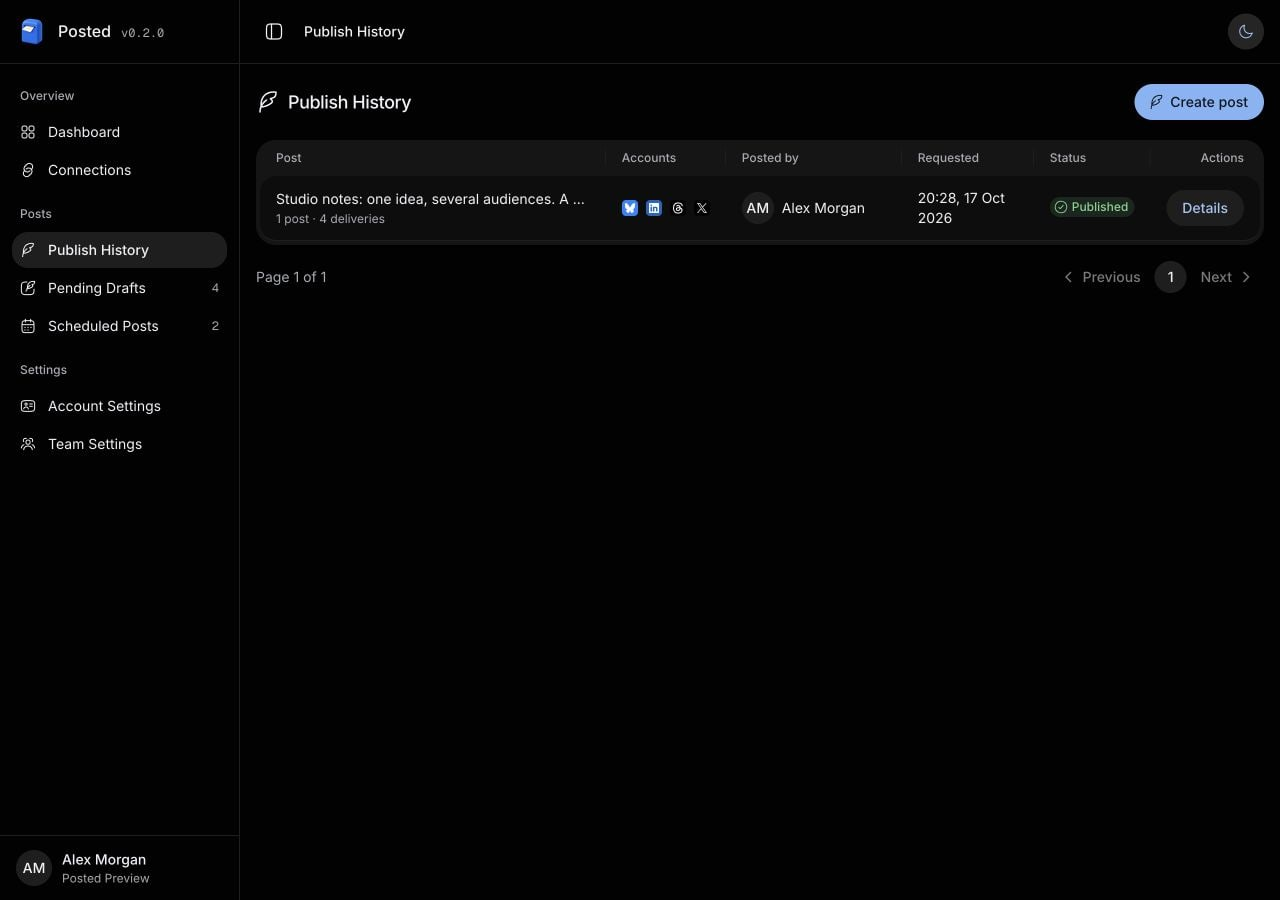
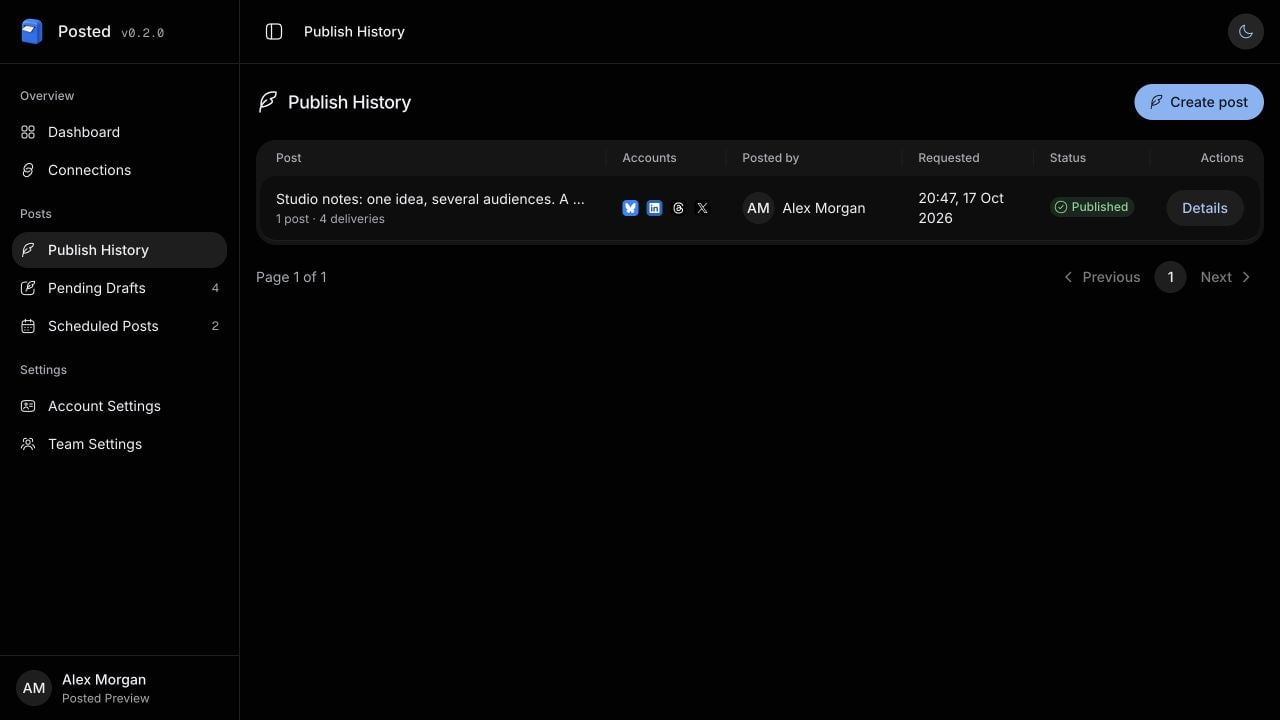
Pin published v0.2.0 images for Towbar deployment

diff --git a/tools/docs-preview.ts b/tools/docs-preview.ts
@@ -25,8 +25,8 @@ const environment = {
   NODE_ENV: "development",
   POSTED_DB_SCHEMA: schema,
   PORT: "4391",
-  POSTED_WEB_URL: "http://localhost:4392",
-  POSTED_API_URL: "http://localhost:4391",
+  POSTED_WEB_URL: "http://127.0.0.1:4392",
+  POSTED_API_URL: "http://127.0.0.1:4391",
   POSTED_SECRET: randomBytes(48).toString("hex"),
   POSTED_S3_ENDPOINT: "http://127.0.0.1:55491",
   POSTED_S3_REGION: "us-east-1",
@@ -157,6 +157,7 @@ const history = await calls("/posts", {
   scheduledAt: new Date(Date.now() + 86400000).toISOString(),
   idempotencyKey: randomUUID(),
 });
+await sql`UPDATE post_groups SET scheduled_at=now() WHERE id=${history.post.id}`;
 await sql`UPDATE post_deliveries SET state='published',provider_post_id='documentation-fixture',published_url='https://example.test/sample-post',published_at=now(),updated_at=now() WHERE group_id=${history.post.id}`;
 await writeFile(
   "tmp/docs-preview.json",
@@ -223,4 +224,6 @@ async function close() {
 }
 process.once("SIGTERM", () => void close());
 process.once("SIGINT", () => void close());
-console.log("Posted isolated documentation preview: http://localhost:4392");
+console.log(
+  `Posted isolated documentation preview: ${environment.POSTED_WEB_URL}`,
+);

diff --git a/docs/v1-requirements.md b/docs/v1-requirements.md
@@ -145,7 +145,7 @@ Expanded master and account media thumbnails open a shared dismissible dialog wi
 
 Focused browser review verified opening images from both editors, keyboard activation, portrait containment, Escape and backdrop dismissal, mobile video playback and closing the player. Metadata review verified image dimensions/file size, video dimensions/file size/0:04 duration, no horizontal overflow at 390 px and no media-card or handle focus ring. The mobile dialog measured 374 px inside a 390 px viewport; the larger video played while the thumbnail remained paused after dismissal. Handle reordering remained functional, and temporary changes were restored without saving. Captures: `artifacts/media-preview-image-dialog.jpg` and `artifacts/media-preview-video-mobile.jpg`.
 
-Focused verification passed 29 PostgreSQL/storage/MCP/draft tests, including per-account media order, explicit empty overrides, version/idempotency conflicts, reset, ownership/readiness/limit/permission validation and delivery with isolated provider mocks. Strict types, targeted lint, formatting, generated docs and the production web build passed. Browser review verified upload, removal, keyboard reordering, save/reopen, account isolation, reset Cancel/confirm, media-only account-removal confirmation and mobile account controls. A temporary 40-post video draft had 80 video elements but loaded only 2–3 nearby sources; typing and scrolling remained responsive and off-screen sources unloaded. Temporary drafts and their account-only test upload were removed, preserving the four reusable fixtures. Captures: `artifacts/account-media-edit-desktop.jpg`, `artifacts/account-media-customization.jpg` and `artifacts/account-media-mobile.jpg`. Broader release/container verification remains deferred.
+Focused verification passed 29 PostgreSQL/storage/MCP/draft tests, including per-account media order, explicit empty overrides, version/idempotency conflicts, reset, ownership/readiness/limit/permission validation and delivery with isolated provider mocks. Strict types, targeted lint, formatting, generated docs and the production web build passed. Browser review verified upload, removal, keyboard reordering, save/reopen, account isolation, reset Cancel/confirm, media-only account-removal confirmation and mobile account controls. A temporary 40-post video draft had 80 video elements but loaded only 2–3 nearby sources; typing and scrolling remained responsive and off-screen sources unloaded. Temporary drafts and their account-only test upload were removed, preserving the four reusable fixtures. Captures: `artifacts/account-media-edit-desktop.jpg`, `artifacts/account-media-customization.jpg` and `artifacts/account-media-mobile.jpg`. Broader release/container verification was deferred at this stage; the final release evidence is recorded below.
 
 ## Local draft fixtures
 
@@ -153,7 +153,7 @@ Draft titles in Pending Drafts link directly to the draft editor, with their exi
 
 The guarded `tools/local-preview-drafts.ts` helper adds four editable samples to the disposable `Posted Preview` installation through authenticated media-upload and draft APIs: a single post for four accounts with three images; a single video post for three accounts; a three-post thread for Bluesky, Threads and X; and a four-post sequence for Bluesky, LinkedIn and Threads with image, video and text-only posts. Samples contain account overrides and image alt text. Media is generated locally and stored privately in the loopback `posted-preview` bucket. Stable draft IDs preserve existing records and user edits on rerun. No posts are queued or published.
 
-Fixture readback confirmed post counts of 1/1/3/4, account counts of 4/3/3/3 and attachment counts of 3/1/3/4, with every attached media record ready. The real four-post editor opened in Preview; all three preview images loaded and the normalized four-second video reached readyState 4 without a media error. A second seed run created no duplicates. Strict TypeScript, targeted lint, formatting and diff checks passed. Captures: `artifacts/preview-drafts-seeded.jpg` and `artifacts/preview-thread-with-media.jpg`. These checks cover the added local fixture data; broader application testing remains deferred.
+Fixture readback confirmed post counts of 1/1/3/4, account counts of 4/3/3/3 and attachment counts of 3/1/3/4, with every attached media record ready. The real four-post editor opened in Preview; all three preview images loaded and the normalized four-second video reached readyState 4 without a media error. A second seed run created no duplicates. Strict TypeScript, targeted lint, formatting and diff checks passed. Captures: `artifacts/preview-drafts-seeded.jpg` and `artifacts/preview-thread-with-media.jpg`. These checks cover the added local fixture data; broader application testing was deferred until the release checks recorded below.
 
 ## Release preparation, 14 October 2026
 
@@ -161,8 +161,8 @@ The final source gate passed formatting, lint, strict types, 67 application test
 
 A fresh ARM64 installation passed setup-secret enforcement, verified first admin, separate-origin routing, non-root/read-only images, private video preparation, durable drafts/future schedules, retry replay, branded Mailpit email and database/private-media restoration. Final source and all three image scans have zero HIGH/CRITICAL findings. The documentation contains 24 navigation routes, generated schemas for 19 REST/MCP operations and 12 desktop/mobile theme captures; native Mintlify build and broken-link checks passed.
 
-Local AMD64 emulation failed twice with a Node/libuv assertion during dependency installation. Native AMD64/ARM64 CI remains a required publication gate. The hosted documentation domain still serves the Mintlify starter kit, and no public Posted repository, packages or release was published. See [release sign-off](release-signoff.md) for the completed checks, evidence and pending external gates.
+At this checkpoint, local AMD64 emulation failed twice with a Node/libuv assertion during dependency installation. Native CI and public publication were still pending. The 0.2.0 evidence below and [release sign-off](release-signoff.md) supersede this historical checkpoint.
 
-## 0.2.0 release preparation
+## 0.2.0 release, 18 October 2026
 
-The release candidate passes `pnpm verify`: strict types, lint, formatting, documentation/schema consistency, release contracts, two operational tests, all 79 PostgreSQL/private-storage integration tests, dependency audit and the production build. Mintlify build validation and broken-link checks pass. Documentation now includes 24 fresh light/dark screenshots from an isolated installation, covering pending drafts, ordered sequences, account text/media customization, media metadata, mobile navigation, scheduling and publication review. Sample completed history is fixture data; no real social post was sent. Exact-commit CI and published image verification remain separate release gates recorded in `docs/release-signoff.md`.
+The released source passed `pnpm verify`: strict types, lint, formatting, documentation/schema consistency, release contracts, two operational tests, all 79 PostgreSQL/private-storage integration tests, dependency audit and the production build. Mintlify build validation and broken-link checks pass. Documentation now includes 24 fresh light/dark screenshots from an isolated installation, covering pending drafts, ordered sequences, account text/media customization, media metadata, mobile navigation, scheduling and publication review. Sample completed history is fixture data; no real social post was sent. [Source PR #3](https://github.com/avgeek-oss/posted/pull/3) merged as `48e2683b96b0a829da9ad96df464b56433da7890`, and [exact-commit main CI](https://github.com/avgeek-oss/posted/actions/runs/39067683174) passed. [Release run 39068006597](https://github.com/avgeek-oss/posted/actions/runs/39068006597) passed all six native image builds/scans, immutable manifest and anonymous access validation, and registry installation/restore on AMD64 and ARM64 before publishing [v0.2.0](https://github.com/avgeek-oss/posted/releases/tag/v0.2.0). Repository Towbar manifests pin that public image manifest while retaining manual deployment and existing workload configuration. Live deployment remains an operator action. See `docs/release-signoff.md` for publication evidence.

diff --git a/docs/release-signoff.md b/docs/release-signoff.md
@@ -1,21 +1,27 @@
 # Posted 0.2.0 release sign-off
 
-Prepared on 18 October 2026 for the multi-post composer, per-account media and publishing workflow release. This report distinguishes local verification from publication and deployment. Release publication requires the exact source commit to pass Required CI and the image workflow below.
+Published on 18 October 2026 (Asia/Kolkata) for the multi-post composer, per-account media and publishing workflows. [Posted v0.2.0](https://github.com/avgeek-oss/posted/releases/tag/v0.2.0) contains the immutable image manifest and matching Compose/environment assets.
 
-## Local evidence
+## Source and documentation
 
-- All 79 integration tests passed against disposable PostgreSQL schemas and private object-storage buckets. Coverage includes permission boundaries, OAuth/PKCE, MCP roles, draft versions and replay, sequence ordering/concurrent claims, failure propagation, account media inheritance and delivery selection.
-- The documentation includes 24 fresh screenshots from an isolated sample installation: desktop light/dark, mobile account editing, thread composition, account customization, attachment inspection, schedule date/time and immediate publication confirmation. Sample history is fixture data; it is not proof of real provider publication.
-- The release candidate uses one version, 0.2.0, for API, worker, UI and published-image Compose defaults. Existing Towbar manifests keep their previously published digests until the new immutable image manifest is available.
+[PR #3](https://github.com/avgeek-oss/posted/pull/3) merged as `48e2683b96b0a829da9ad96df464b56433da7890`. The annotated `v0.2.0` tag points to that commit. [Exact-commit main CI](https://github.com/avgeek-oss/posted/actions/runs/39067683174) passed verification, documentation, security, CodeQL and native AMD64/ARM64 production installation and restoration.
 
-The complete local verification run passed documentation consistency, release contracts, formatting, lint, strict types, two operational tests, 79 PostgreSQL/storage integration tests, dependency audit and the production build. Mintlify build validation and broken-link checks passed; staged Gitleaks and workflow Actionlint checks reported no findings. Native ARM64 container installation/restore is checked locally. CI repeats these checks and adds native AMD64 installation/restore, CodeQL and source security scanning.
+The documentation includes 24 fresh screenshots from an isolated sample installation: desktop light/dark, mobile account editing, thread composition, account customization, attachment inspection, schedule date/time and immediate publication confirmation. The published [composer guide](https://www.posted.cc/composer) was reviewed with its deployed screenshot. Sample history is fixture data; it is not evidence of real provider publication.
 
-## Publication gates
+## Verification
 
-1. Merge the reviewed PR after its Required CI succeeds. Confirm Required CI again for the resulting main commit.
-2. Create `v0.2.0` on that exact commit and run **Publish release images** from main.
-3. Require native AMD64/ARM64 image builds, security scans, platform-manifest validation and anonymous access to each immutable GHCR image.
-4. Require installation and restore from the pulled images on both platforms. Publish the release with `posted-images.json` and matching Compose/environment assets only after those gates pass.
-5. Update the repository's three Towbar service manifests from that published manifest, retaining manual deployment, workload IDs, placement, secrets, database and domains.
+All 79 integration tests passed against disposable PostgreSQL schemas and private object-storage buckets. Coverage includes permission boundaries, OAuth/PKCE, MCP roles, draft versions and replay, sequence ordering/concurrent claims, failure propagation, account media inheritance and delivery selection.
 
-The GitHub release, Actions run and immutable manifest are the authority for publication status. Updating source or deployment manifests does not deploy the application. Provider approval, credentials, access plans and a separately authorized real-account publishing check remain operator prerequisites. Verification sends no real social posts.
+The complete local verification run passed documentation consistency, release contracts, formatting, lint, strict types, two operational tests, 79 PostgreSQL/storage integration tests, dependency audit and the production build. Mintlify build validation and broken-link checks passed; staged Gitleaks and workflow Actionlint checks reported no findings. Native ARM64 container installation/restore passed locally.
+
+## Published images
+
+[Release run 39068006597](https://github.com/avgeek-oss/posted/actions/runs/39068006597) completed successfully. It built API, worker and UI on native AMD64 and ARM64, scanned all six images with no HIGH/CRITICAL findings, validated their source/version labels and aliases, and verified anonymous registry access. Installation and restoration from the pulled immutable images passed on both platforms before publication.
+
[1 lines of base64/hex data omitted]
+
+## Towbar deployment handoff
+
+The repository's three Towbar service manifests use the published v0.2.0 digests. Only image references and version descriptions change; manual deployment, workload IDs, placement, runtime secrets, datastore and domains are retained. See [installation](installation.md) and [upgrades](upgrades.md) for backup and deployment order.
+
+This release and manifest update prepare the installation for deployment. They do not deploy the live application. Provider approval, credentials, access plans and a separately authorized real-account publishing check remain operator prerequisites. Verification sent no real social posts.

diff --git a/docs/development.md b/docs/development.md
@@ -85,6 +85,6 @@ The browser preview processes media through the same preparation function, but c
 
 Edit the guide sources in `docs/*.md` and product configuration in `docs/site.json`. Run `pnpm docs:build` to generate Mintlify pages with the shared docs kit. `pnpm docs:check` checks generated consistency, schemas, links and screenshot dimensions; `pnpm docs:validate` runs the pinned Mintlify build and broken-link checks. Review `pnpm docs:dev` on desktop and mobile.
 
-`pnpm docs:preview` starts an isolated fixture schema and bucket on ports 4391/4392 for documentation captures. It uses sample accounts and media, processes media only and removes its owned data when stopped. It does not reset an existing preview installation.
+`pnpm docs:preview` starts an isolated fixture schema and bucket at `http://127.0.0.1:4392` with its API on port 4391 for documentation captures. Its separate loopback hostname keeps its browser session cookies apart from the main localhost preview. It uses sample accounts and media, processes media only and removes its owned data when stopped. It does not reset an existing preview installation.
 
-Run `pnpm verify` and `pnpm verify:production` before requesting release review. The production gate creates disposable containers, verifies setup, private video, scheduling, branded account email and database/media restoration, then removes its containers and private files. Native AMD64 and ARM64 CI are required before publication. The release workflow validates the exact source commit, scans images, checks anonymous GHCR access and writes an immutable three-image manifest. See the repository’s release sign-off report for the current candidate status.
+Run `pnpm verify` and `pnpm verify:production` before requesting release review. The production gate creates disposable containers, verifies setup, private video, scheduling, branded account email and database/media restoration, then removes its containers and private files. Native AMD64 and ARM64 CI are required before publication. The release workflow validates the exact source commit, scans images, checks anonymous GHCR access and writes an immutable three-image manifest. See the repository’s release sign-off report for the current release status.

diff --git a/README.md b/README.md
@@ -4,13 +4,13 @@ A team-owned social media scheduler for X, LinkedIn, Bluesky and Threads.
 
 Posted uses the same shared authentication, settings and MCP consent components as Towbar, Mill, Rootset and Vitalog. Social accounts connect to the team and can be shared by its members within their current permissions.
 
-Read the documentation at [posted.cc](https://posted.cc). The source uses the published shared design system and includes PostgreSQL, private-storage, OAuth, MCP, image/video and worker-concurrency tests. See the [release sign-off](docs/release-signoff.md) for the current candidate's evidence and publication gates. Provider application approval and production credentials remain installation prerequisites.
+Read the documentation at [posted.cc](https://posted.cc). The source uses the published shared design system and includes PostgreSQL, private-storage, OAuth, MCP, image/video and worker-concurrency tests. See the [release sign-off](docs/release-signoff.md) for the published release evidence and deployment status. Provider application approval and production credentials remain installation prerequisites.
 
 Use the [installation guide](docs/installation.md) to run version-matched API, worker and UI images with external or bundled PostgreSQL. The [development guide](docs/development.md) describes source builds, local previews and disposable verification services. Public source builds require no npm registry credential.
 
 ## Towbar deployment
 
-`towbar.yml` and `.towbar/` define the hosted production deployment using the published v0.1.0 image digests. See [installation with Towbar](docs/installation.md#deploy-with-towbar) for runtime values, deployment order and moving an existing installation. Forks must use their own registered server and domains.
+`towbar.yml` and `.towbar/` define the hosted production deployment using the published v0.2.0 image digests. See [installation with Towbar](docs/installation.md#deploy-with-towbar) for runtime values, deployment order and moving an existing installation. Forks must use their own registered server and domains.
 
 ## Architecture
 

diff --git a/docs/installation.md b/docs/installation.md
@@ -60,7 +60,7 @@ docker compose exec worker node -e "fetch('http://127.0.0.1:4343/health/ready').
 
 ## Deploy with Towbar
 
-The repository includes `towbar.yml`, three service manifests in `.towbar/services/`, and a PostgreSQL manifest in `.towbar/datastores/`. They use the published v0.1.0 image digests, run on the registered Platform Services server, and disable automatic deployment. Forks must update the server IP and public domains before connecting the repository.
+The repository includes `towbar.yml`, three service manifests in `.towbar/services/`, and a PostgreSQL manifest in `.towbar/datastores/`. They use the published v0.2.0 image digests, run on the registered Platform Services server, and disable automatic deployment. Forks must update the server IP and public domains before connecting the repository.
 
 1. Connect the repository in Towbar and map `production` to `main`.
 2. Save the declared production runtime values in Towbar. Set `POSTGRES_USER=posted`, `POSTGRES_DB=posted` and a generated `POSTGRES_PASSWORD`. The API and worker share `DATABASE_URL` using host `posted-postgres:5432`, the same stable `POSTED_SECRET`, and the public `POSTED_WEB_URL`/`POSTED_API_URL`. Set `NODE_ENV=production` on all three services and configure the API's declared SMTP values. See [configuration](/configuration) for optional media storage and social-provider settings.

diff --git a/docs/upgrades.md b/docs/upgrades.md
@@ -23,4 +23,4 @@ This release adds migrations `009_post_sequences.sql` and `010_account_media.sql
 
 The API adds optional `additionalPosts` and `mediaOverrides` fields. Existing single-post requests continue to work, including replay of their original request keys. An omitted account media override inherits the master; an explicit empty list means no media for that account. See the [REST reference](/rest-reference) for the generated request schemas.
 
-After the release images are available, Towbar installations should pin API, worker and UI to the matching digests from `posted-images.json`. Keep deployment manual, retain the existing datastore and stable secret, deploy the API migration before the worker, then update the UI. Check an existing draft, its media, account previews and scheduled delivery state before reopening writes. A source or manifest PR does not itself deploy the application.
+Towbar installations should pin API, worker and UI to the matching digests from `posted-images.json`. Keep deployment manual, retain the existing datastore and stable secret, deploy the API migration before the worker, then update the UI. Check an existing draft, its media, account previews and scheduled delivery state before reopening writes. A source or manifest PR does not itself deploy the application.
